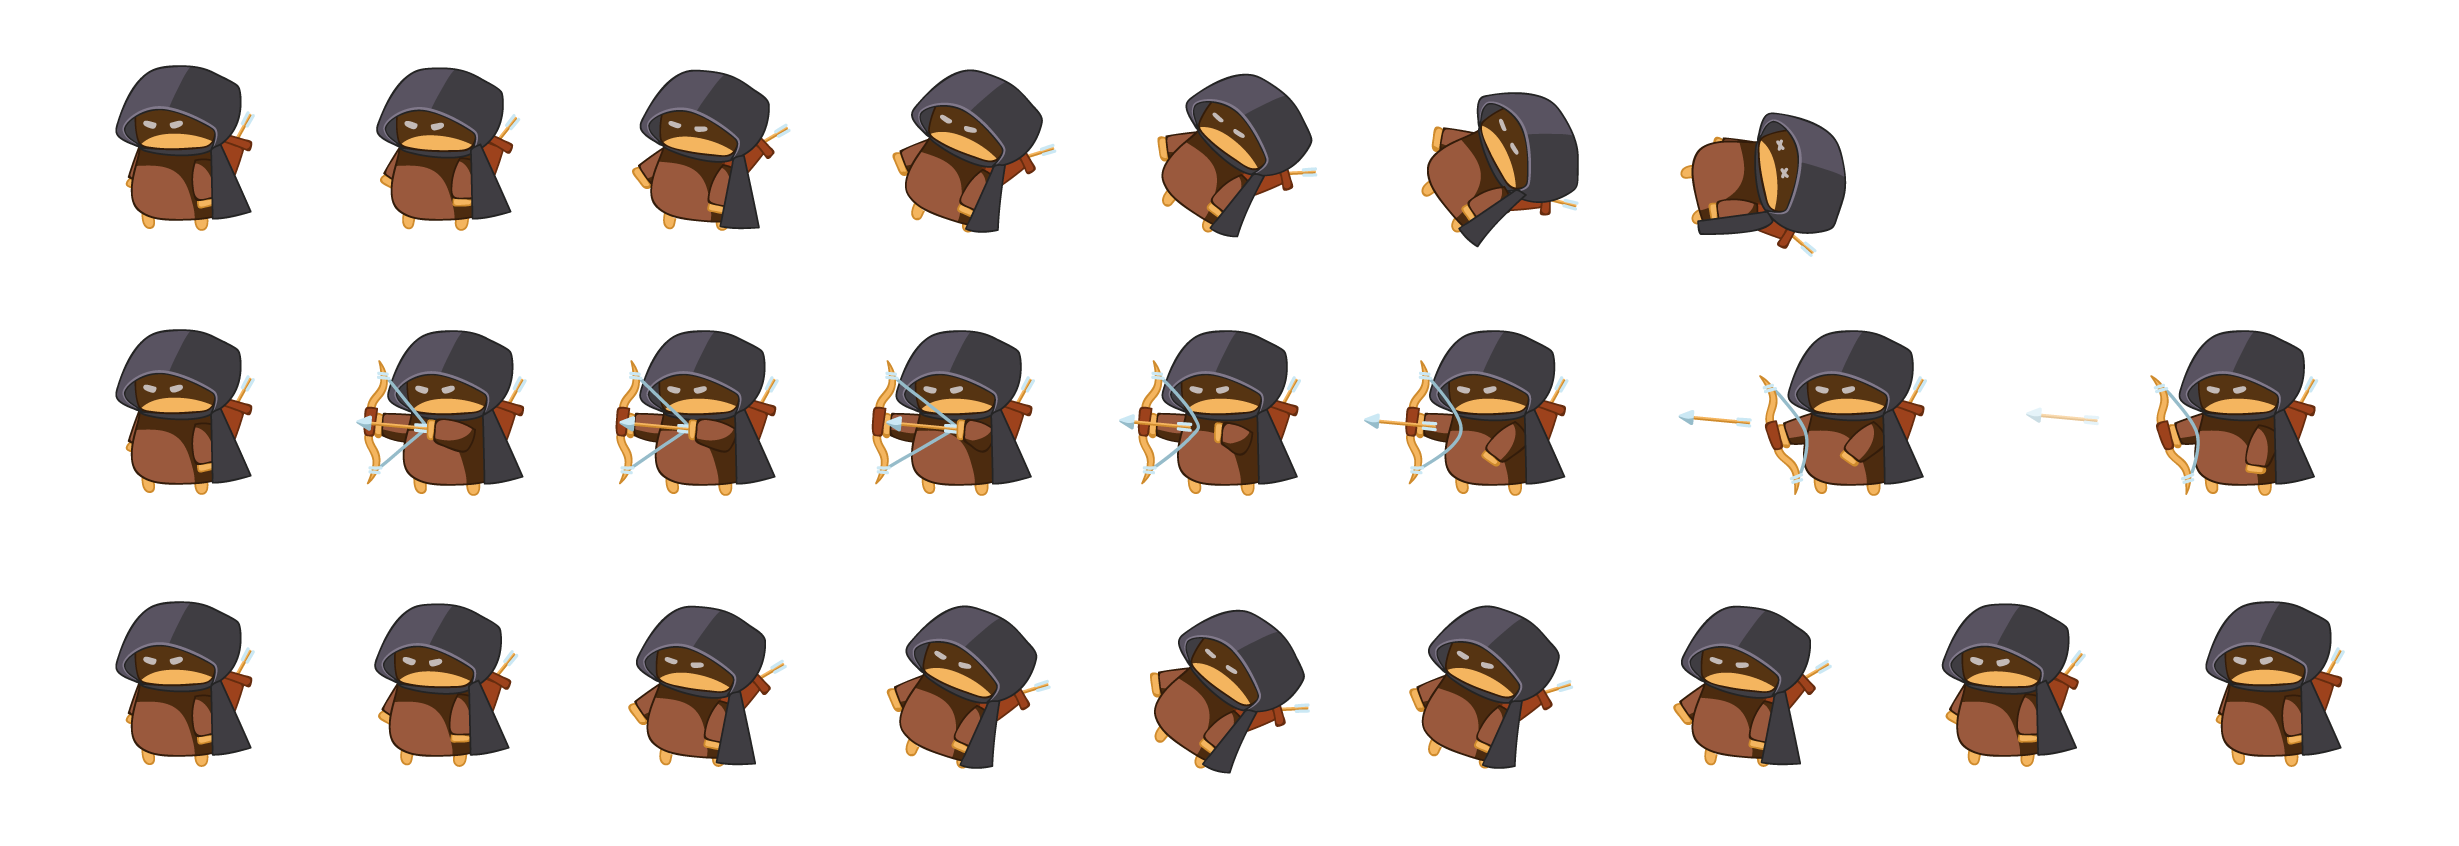
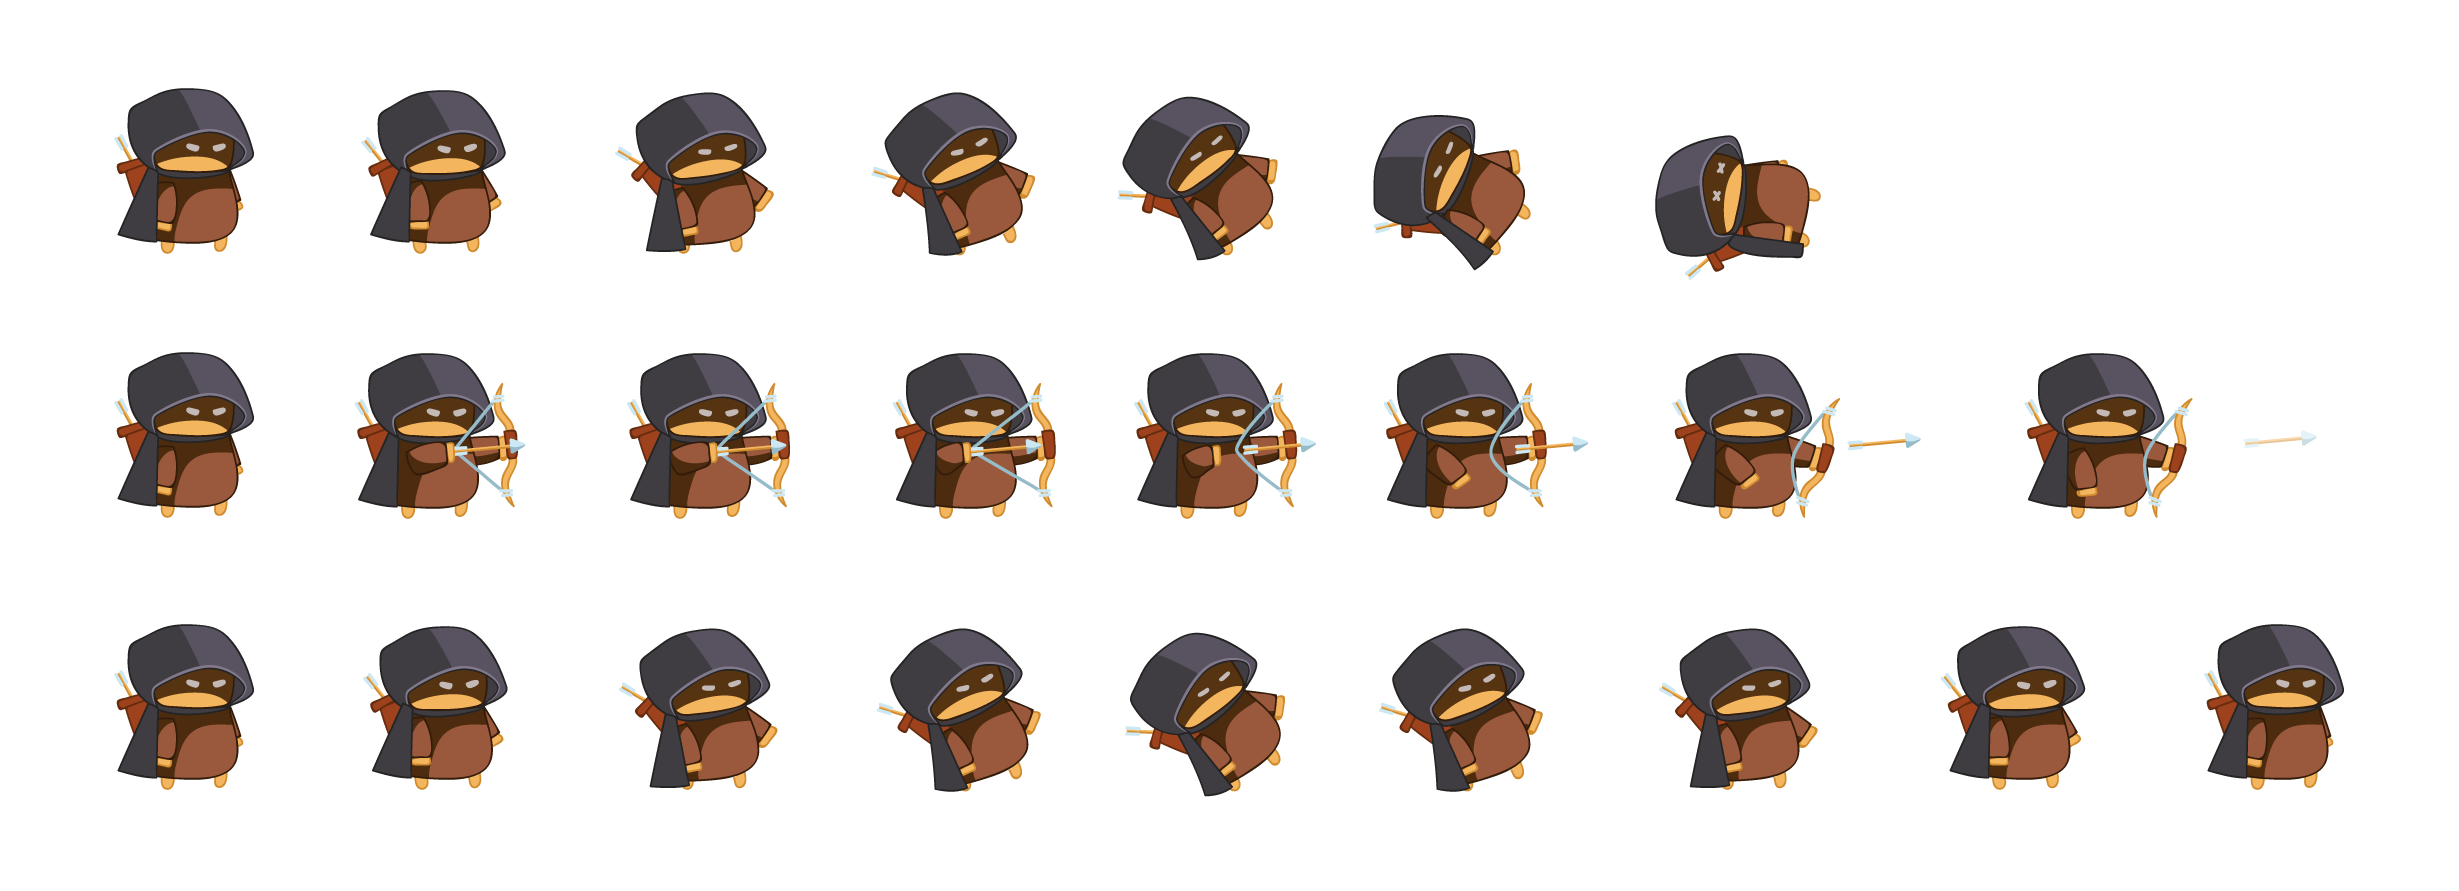
add animation for ice-mage, added promises for animation, changed keyframes and img for warriors

diff --git a/src/battlefield/components/mass-attacks/archer-attack.js b/src/battlefield/components/mass-attacks/archer-attack.js
@@ -1,0 +1,94 @@
+import React, { PureComponent, Fragment } from "react";
+import classNames from "classnames";
+import { ARCHER_ATTACK } from "../../constants/mass-attack-types";
+import { register } from "../../../animation/collection";
+import getElementBoundsWithinContainer from "../../helpers/get-element-bounds-within-container";
+import { get } from "../../../config/character-nodes-reference";
+
+const getCharacterNodeRef = get;
+const ARROW_WIDTH = 45;
+const ARROW_HEIGHT = 15;
+
+export default class ArcherAttack extends PureComponent {
+  constructor(props) {
+	super(props);
+	this.state = {
+	  isPlaying: false
+	};
+
+	this.play = this.play.bind(this);
+  }
+
+  componentDidMount() {
+	register(ARCHER_ATTACK, this);
+  }
+
+  play() {
+	  return new Promise((resolve) => {
+		this.setState(
+			{
+			  isPlaying: true
+			},
+			() => {
+			  setTimeout(() => {
+				this.setState({
+				  isPlaying: false
+				});
+				resolve();
+			  }, 300);
+			}
+		  );
+	  })
+  }
+
+  getArrowStyles(characterBounds) {
+	const {width, height, left, top } = characterBounds;
+
+	return {
+		left: left + (width / 2) - (ARROW_WIDTH / 2),
+		top: top + height / 2 - (ARROW_HEIGHT / 2),
+		width: `${ARROW_WIDTH}px`,
+		height: `${ARROW_HEIGHT}px`,
+		zIndex: '99'
+	};
+  }
+
+  getArrowTargetStyles(characterBounds, targetBounds) {
+	const initialStyles = this.getArrowStyles(characterBounds);
+
+	const { left: targetLeft, width: targetWidth, height: targetHeight, top: targetTop } = targetBounds;
+	const targetLeftCenter = targetLeft + (targetWidth / 2) - (ARROW_WIDTH / 2);
+	const targetTopCenter = targetTop + (targetHeight / 2) - (ARROW_HEIGHT / 2);
+
+	const {left, top } = initialStyles;
+
+	const transformX = targetLeftCenter - left;
+	const transformY = targetTopCenter - top;
+
+	return {
+		...initialStyles,
+		transform:`translate(${transformX}px, ${transformY}px)`,
+	}
+  }
+
+  render() {
+	const { isPlaying } = this.state;
+	const { massAnimationContainerNode, activePlayerId, selectedPlayerId } = this.props;
+
+	const arrowClasses = classNames("arrow", {
+		active: isPlaying
+	  });
+
+	const characterNode = getCharacterNodeRef(activePlayerId);
+	const targetNode = getCharacterNodeRef(selectedPlayerId);
+	const characterBounds = getElementBoundsWithinContainer(characterNode, massAnimationContainerNode);
+	const targetBounds = getElementBoundsWithinContainer(targetNode, massAnimationContainerNode);
+
+	if (!characterBounds.left || !targetBounds.left) return null;
+
+	return (
+		<div className={arrowClasses} style={isPlaying ? this.getArrowTargetStyles(characterBounds, targetBounds) : this.getArrowStyles(characterBounds)}></div>
+		// <div className={arrowClasses}></div>
+	);
+  }
+}

diff --git a/src/battlefield/reducers/troops.js b/src/battlefield/reducers/troops.js
@@ -1,5 +1,5 @@
 import actionTypes from "../constants/action-types";
-import { ICE_MAGE_ATTACK } from "../constants/mass-attack-types";
+import { ARCHER_ATTACK, ICE_MAGE_ATTACK } from "../constants/mass-attack-types";
 
 const DEFAULT_TROOPS = [
   {
@@ -38,7 +38,7 @@ const DEFAULT_TROOPS = [
   {
     team: "attackers",
     type: "ice-mage",
-    attack: '5-10',
+    attack: '50-60',
     attackType: 'massive',
     attackId: ICE_MAGE_ATTACK,
     position: 4,  
@@ -49,26 +49,28 @@ const DEFAULT_TROOPS = [
   },
   {
     team: "attackers",
-    type: "knight",
-    attack: '5-7',
+    type: "archer",
+    attack: '50-70',
     attackType: 'single',
+    attackId: ARCHER_ATTACK,
     position: 5,
     health: 30,
     currentHealth: 30,
     id: 5,
-    initiative: 3,
+    initiative: 9,
   },
-  {
-    team: "attackers",
-    type: "knight",
-    attack: '5-7',
-    attackType: 'single',
-    position: 6,
-    health: 40,
-    currentHealth: 40,
-    id: 6,
-    initiative: 3,
-  }
+  // {
+  //   team: "attackers",
+  //   type: "archer",
+  //   attack: '50-70',
+  //   attackType: 'single',
+  //   attackId: ARCHER_ATTACK,
+  //   position: 6,
+  //   health: 40,
+  //   currentHealth: 40,
+  //   id: 6,
+  //   initiative: 9,
+  // }
 ];
 const DEFAULT_STATE = {
   attackers: DEFAULT_TROOPS,

diff --git a/src/battlefield/middleware/finish-battle.js b/src/battlefield/middleware/finish-battle.js
@@ -1,0 +1,41 @@
+import actionTypes from "../constants/action-types";
+import actions from "../actions";
+import selectors from "../selectors";
+
+// const { setActivePlayerIndex } = actions;
+
+const finishBattle = store => next => action => {
+  switch (action.type) {
+    case actionTypes.SELECT_NEXT_ACTIVE_PLAYER: {
+      const state = store.getState();
+      const attackers = selectors.getAttackers(state);
+      const defenders = selectors.getDefenders(state);
+
+      console.log('attackers',attackers);
+      console.log('defenders',defenders);
+      
+      const attackerTeamIsDead = attackers.every( attacker => attacker.currentHealth <= 0);
+      const defendersTeamIsDead = defenders.every( defenders => defenders.currentHealth <= 0);
+
+      console.log('attackerTeamIsDead',attackerTeamIsDead);
+      console.log('defendersTeamIsDead',defendersTeamIsDead);
+
+      if(attackerTeamIsDead) {
+        alert('DEFENDERS TEAM WIN');
+      }
+
+      if(defendersTeamIsDead) {
+        alert('ATTACKERS TEAM WIN');
+      }
+
+
+      // store.dispatch(setActivePlayerIndex(nextActivePlayerIndex));
+      next(action);
+      break;
+    }
+    default:
+      next(action);
+  }
+};
+
+export default  finishBattle;

diff --git a/src/battlefield/middleware/attack.js b/src/battlefield/middleware/attack.js
@@ -65,7 +65,30 @@ const attackMiddleware = store => next => action => {
           });
 
           // SELECT NEXT PLAYER
-          store.dispatch(selectNextActivePlayer(charactersOrderedByInitiatives));
+          store.dispatch(
+            selectNextActivePlayer(charactersOrderedByInitiatives)
+          );
+          store.dispatch(setBattlefieldStatus(false));
+          next(action);
+        });
+        break;
+      }
+      if (activePlayer.attackType === "single") {
+        Promise.all([
+          getCharacterAnimationInstance(activePlayerId).attack(),
+          getCharacterAnimationInstance(activePlayer.attackId).play()
+        ]).then(() => {
+          store.dispatch(applyDamage(id, damage, team));
+          if (isDying) {
+            getCharacterAnimationInstance(id).die();
+          } else {
+            getCharacterAnimationInstance(id).receiveDamage();
+          }
+
+          // SELECT NEXT PLAYER
+          store.dispatch(
+            selectNextActivePlayer(charactersOrderedByInitiatives)
+          );
           store.dispatch(setBattlefieldStatus(false));
           next(action);
         });

diff --git a/src/battlefield/containers/BattlefieldContainer.js b/src/battlefield/containers/BattlefieldContainer.js
@@ -58,18 +58,21 @@ class BattlefieldContainer extends React.Component {
       isDisabled
     } = this.props;
 
+    console.log('isDisabled', isDisabled)
+
     if (isDisabled) return;
-    setBattlefieldStatus(true);
+
 
     const activePlayer =
       attackers.find(character => character.id === activePlayerId) ||
       defenders.find(character => character.id === activePlayerId);
     if (team === activePlayer.team) {
+      // TODO: enable support only for priests
+      return;
       support(id, team);
     } else {
       const targetHero = getCharacterById(id);
       if (targetHero.currentHealth <= 0) return;
-
       if (
         activePlayer.attackType === "melee" &&
         !checkMeleeAttackConstraints({
@@ -82,6 +85,7 @@ class BattlefieldContainer extends React.Component {
         return;
       }
 
+      setBattlefieldStatus(true);
       attack(id, team);
     }
   }

diff --git a/src/scss/mass-attacks/archer-attack.scss b/src/scss/mass-attacks/archer-attack.scss
@@ -1,0 +1,36 @@
+.area {
+    position: absolute;
+    width: 380px;
+    min-height: 100%;
+  }
+
+  .arrow {
+    opacity: 0;
+    width: 45px;
+    height: 15px;
+    position: absolute;
+    transition: transform .3s ease-out; 
+  }
+
+  .arrow::before {
+    content: '';
+    position: absolute;
+    top: 0;
+    left: 0;
+    bottom: 0;
+    right: 0;
+    width: 100%;
+    height: 100%;
+
+    background-image: url('../../images/characters/archer.png');
+    background-position: -1087px -240px;
+    background-size: 1448px 500px;
+  }
+
+  .left .arrow::before {
+    transform: rotate3d(0, 1, 0, 180deg);
+  }
+
+  .arrow.active {
+    opacity: 1;
+  }

diff --git a/src/sounds/index.js b/src/sounds/index.js
@@ -1,8 +1,8 @@
 import swordAttack from "./sword_swipe_flash.mp3";
 import iceMassive from "./ice-mage_attack.mp3";
+import archerAttack from "./archer_attack.mp3";
 import maleDie from "./male_scream.mp3";
 import maleReceiveDamage from "./male_receive_damage.mp3";
-
 
 export default {
     knight: {
@@ -12,6 +12,11 @@ export default {
     },
     iceMage: {
         attack: iceMassive,
+        receiveDamage: maleReceiveDamage,
+        die: maleDie,
+    },
+    archer: {
+        attack: archerAttack,
         receiveDamage: maleReceiveDamage,
         die: maleDie,
     },

diff --git a/src/battlefield/middleware/index.js b/src/battlefield/middleware/index.js
@@ -2,10 +2,12 @@ import nextPlayerSelector from "./next-player-selector";
 import attackMiddleware from "./attack";
 import supportMiddleware from "./support";
 import cursorMiddleware from "./cursor";
+import finishBattle from "./finish-battle";
 
 export default [
     nextPlayerSelector,
     attackMiddleware,
     supportMiddleware,
-    cursorMiddleware
+    cursorMiddleware,
+    finishBattle
 ]

diff --git a/src/battlefield/components/mass-attacks/index.js b/src/battlefield/components/mass-attacks/index.js
@@ -1,7 +1,10 @@
 import IceMageAttack from "./ice-mage-attack";
+import ArcherAttack from "./archer-attack";
 
-import { ICE_MAGE_ATTACK } from '../../constants/mass-attack-types'
+import { ICE_MAGE_ATTACK, ARCHER_ATTACK } from '../../constants/mass-attack-types'
 
 export default {
     [ICE_MAGE_ATTACK]: IceMageAttack,
+    [ARCHER_ATTACK]: ArcherAttack,
+
 }

diff --git a/src/scss/character.scss b/src/scss/character.scss
@@ -167,10 +167,10 @@
 }
 
 .archer {
-  width: 110px;
-  height: 115px;
+  width: 120px;
+  height: 120px;
   background-image: url("../images/characters/archer.png");
-  background-position: -58px -30px;
+  background-position: -49px -190px;
   background-size: 1448px 500px;
 }
 

diff --git a/src/battlefield/components/mass-attacks/ice-mage-attack.js b/src/battlefield/components/mass-attacks/ice-mage-attack.js
@@ -52,7 +52,7 @@ export default class IceMageAttack extends PureComponent {
 	  getNumberInRange(1, numberOfAttackTypes)
 	];
 	// return attackType;
-	return "frost-bolt-attack";
+	return "frost-circle-attack";
   }
 
   getFrostBoltStyles(characterBounds) {

diff --git a/src/scss/index.scss b/src/scss/index.scss
@@ -6,6 +6,7 @@
 
 // MASS ATTACKS
 @import 'mass-attacks/ice-mage-attack.scss';
+@import 'mass-attacks/archer-attack.scss';
 
 
 body {
